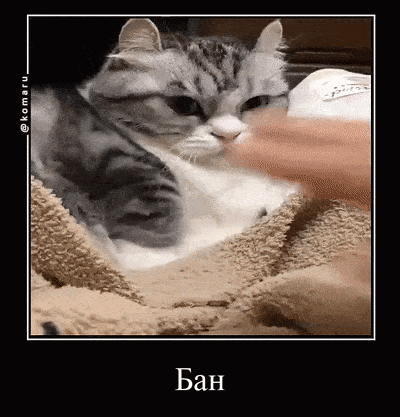
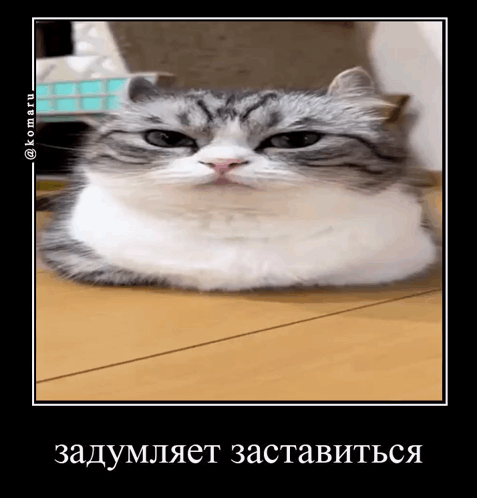
07.06.2025 19:29

diff --git a/README.md b/README.md
@@ -2,4 +2,4 @@
 
 No Lorem Ipsum only Laura Palmer
 
-![alt text](image-1.png)
+![alt text](image.png)
